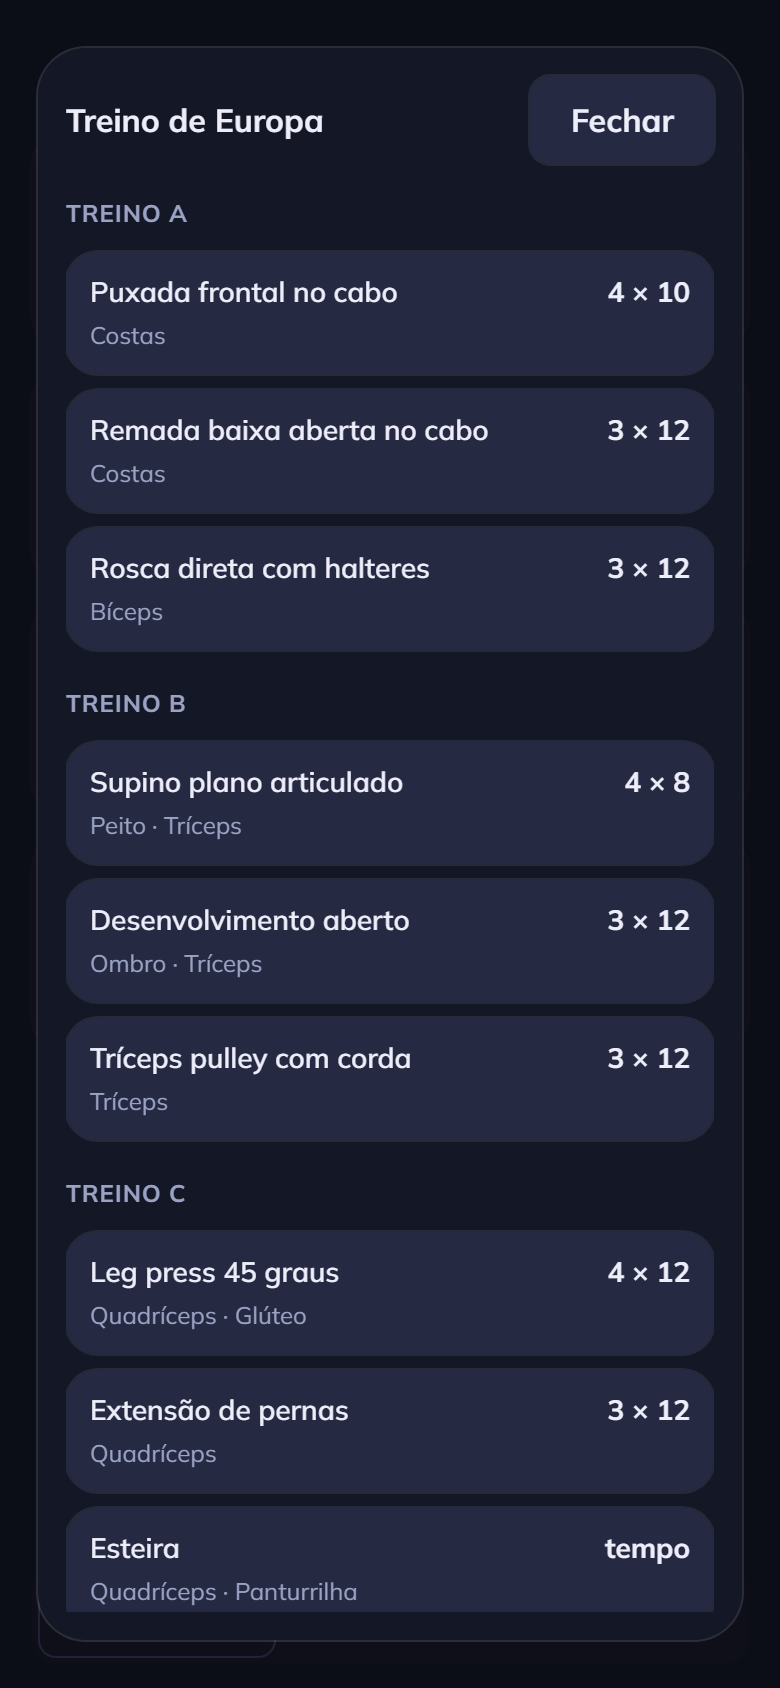
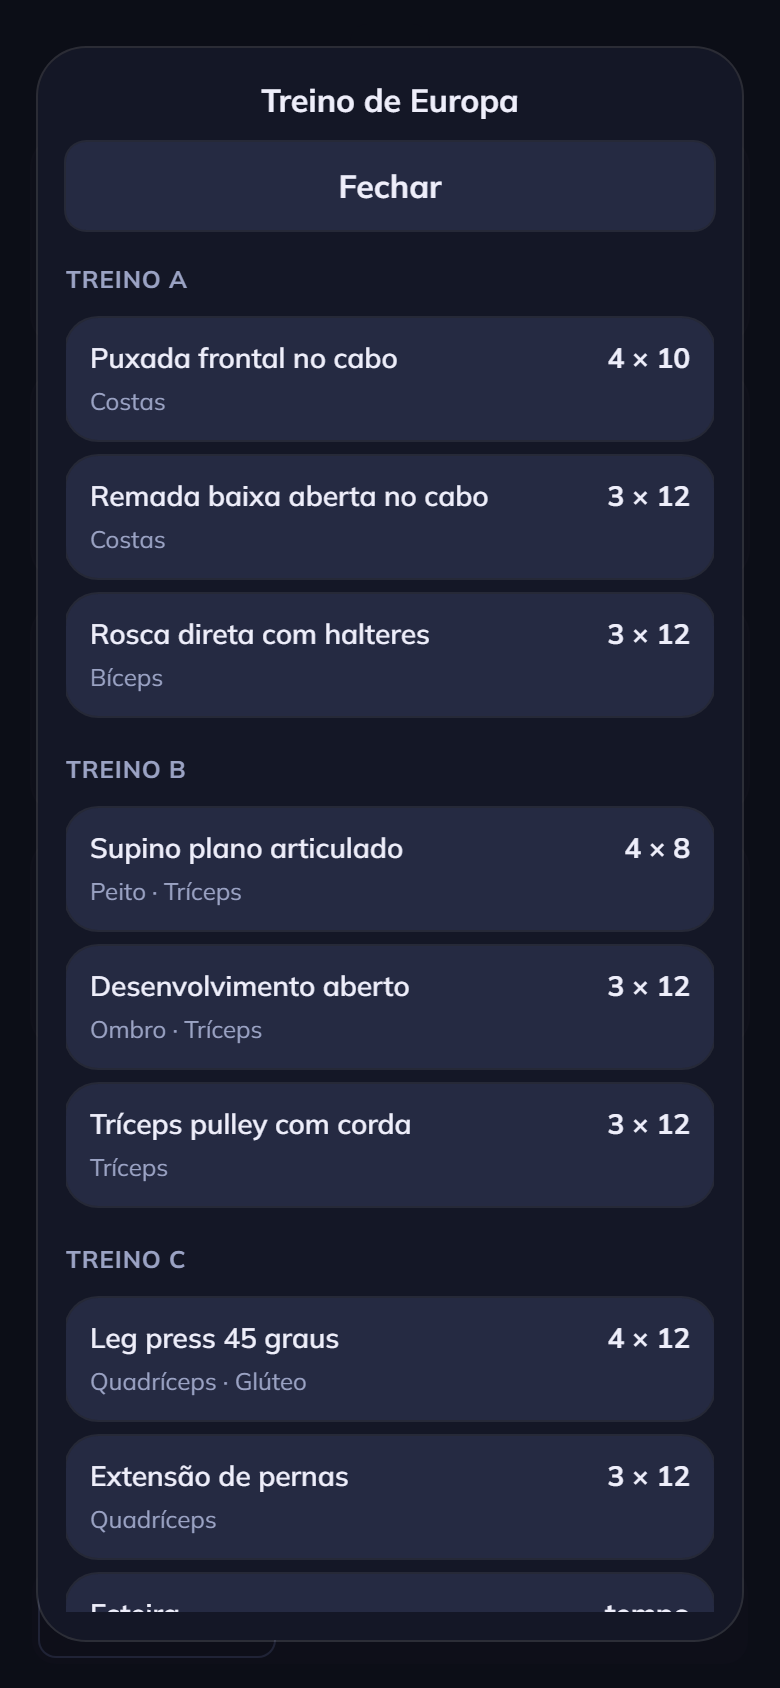
feat: the history drawer closes by dragging its top down
The "Fechar" button gives way to a handle bar over a centered title. The
sheet follows the finger; past 80px it slides out and closes, short of
that it snaps back. Escape and tapping outside remain the keyboard and
mouse paths. Screenshots regenerated, worker cache bumped to v16.

diff --git a/test/probe.js b/test/probe.js
@@ -848,7 +848,7 @@ const Probe = (function () {
       document.querySelectorAll(".history-row .history-none").length
         === document.querySelectorAll(".history-row").length,
       document.querySelectorAll(".history-row .history-none").length);
-    document.getElementById("history-close").click();
+    document.getElementById("history").close();
     await pause(250);
 
     // The drawer: pulling the footer up opens the history, and the click born from the finger releasing
@@ -867,8 +867,27 @@ const Probe = (function () {
     await pause(300);
     check("puxar o rodapé para cima abre o histórico", document.getElementById("history").open);
     check("o dedo que puxou não troca de treino ao soltar", document.querySelector('.tab[aria-selected="true"]').textContent === tabBefore);
-    document.getElementById("history-close").click();
-    await pause(250);
+
+    // Closing is the mirror gesture: drag the drawer's top strip down. Short drag snaps back.
+    const drawer = document.getElementById("history");
+    const strip = drawer.querySelector(".history-top");
+    check("a gaveta não tem mais botão de fechar, só a alça", !document.getElementById("history-close") && strip.querySelector(".handle") !== null);
+    const drag = async (distance) => {
+      strip.dispatchEvent(new PointerEvent("pointerdown", { bubbles: true, clientY: 200, pointerId: 7 }));
+      strip.dispatchEvent(new PointerEvent("pointermove", { bubbles: true, clientY: 200 + distance / 2, pointerId: 7 }));
+      await pause(50);
+      strip.dispatchEvent(new PointerEvent("pointermove", { bubbles: true, clientY: 200 + distance, pointerId: 7 }));
+      await pause(50);
+    };
+    await drag(40);
+    check("a gaveta acompanha o dedo enquanto ele segura", drawer.classList.contains("dragging") && drawer.style.translate === "0px 40px", drawer.style.translate);
+    strip.dispatchEvent(new PointerEvent("pointerup", { bubbles: true, clientY: 240, pointerId: 7 }));
+    await pause(400);
+    check("arrasto curto devolve a gaveta ao lugar", drawer.open && drawer.style.translate === "", drawer.style.translate);
+    await drag(160);
+    strip.dispatchEvent(new PointerEvent("pointerup", { bubbles: true, clientY: 360, pointerId: 7 }));
+    await waitFor(() => !drawer.open, "a gaveta descer e fechar");
+    check("arrasto longo fecha a gaveta e limpa o deslocamento", !drawer.open && drawer.style.translate === "");
     targetTab.click();
     await pause(300);
     check("a aba volta a funcionar no toque seguinte", document.querySelector('.tab[aria-selected="true"]').textContent === targetTab.textContent);
@@ -933,7 +952,7 @@ const Probe = (function () {
     await typeInto("");
     check("limpar a busca traz tudo de volta", rows().length === howManyExercises, rows().length);
 
-    document.getElementById("history-close").click();
+    document.getElementById("history").close();
     await pause(250);
     check("fechar o histórico volta para o treino", !panel.open);
   }
@@ -1077,7 +1096,7 @@ const Probe = (function () {
         .some((row) => row.querySelector(".history-name").textContent === whatReturns));
     check("a volta é anunciada", noticeSays("voltou para o"), document.getElementById("notice").textContent);
 
-    document.getElementById("history-close").click();
+    document.getElementById("history").close();
     await pause(250);
     tabOf(target).click();
     await pause(400);
@@ -1569,7 +1588,8 @@ const Probe = (function () {
       && (await Store.readCircle("sun")) === null);
 
     document.getElementById("circle-create").click();
-    await pause(300);
+    // Creating awaits the render, which awaits the whole list remount: on a busy machine 300ms is short.
+    await waitFor(() => body().includes("Código do convite"), "o código do círculo na tela");
     const code = await Store.readCircle("sun");
     check("criar mostra o código para passar adiante", code !== null && body().includes(code), body());
     check("dentro do círculo, entrar some e sair aparece", document.getElementById("circle-join").hidden

diff --git a/src/history.js b/src/history.js
@@ -291,5 +291,38 @@ for (const name of ["pointerup", "pointercancel"]) {
   footer.addEventListener(name, () => { if (!pull?.opened) pull = null; });
 }
 
-document.getElementById("history-close").onclick = () => historyPanel.close();
+// Dragging the drawer's top edge down closes it, the way pulling the footer up opened it. The sheet
+// follows the finger; past the threshold it slides the rest of the way and closes, short of it it
+// snaps back. Escape and tapping outside stay as the keyboard and mouse paths.
+const DRAWER_DROP = 80;
+const drawerTop = historyPanel.querySelector(".history-top");
+let drop = null;
+drawerTop.addEventListener("pointerdown", (event) => {
+  drop = { y: event.clientY, moved: 0 };
+  historyPanel.classList.add("dragging");
+  try { drawerTop.setPointerCapture(event.pointerId); } catch { /* synthetic pointer */ }
+});
+drawerTop.addEventListener("pointermove", (event) => {
+  if (!drop) return;
+  drop.moved = Math.max(0, event.clientY - drop.y);
+  historyPanel.style.translate = `0 ${drop.moved}px`;
+});
+function releaseDrawer() {
+  if (!drop) return;
+  const far = drop.moved > DRAWER_DROP;
+  drop = null;
+  historyPanel.classList.remove("dragging");
+  if (!far) {
+    historyPanel.style.translate = "";
+    return;
+  }
+  const finish = () => { historyPanel.style.translate = ""; historyPanel.close(); };
+  if (matchMedia("(prefers-reduced-motion: reduce)").matches) return finish();
+  historyPanel.style.translate = "0 100%";
+  // transitionend can be missed when the tab is hidden; the timer is the safety net.
+  const timer = setTimeout(finish, 400);
+  historyPanel.addEventListener("transitionend", () => { clearTimeout(timer); finish(); }, { once: true });
+}
+drawerTop.addEventListener("pointerup", releaseDrawer);
+drawerTop.addEventListener("pointercancel", releaseDrawer);
 historySearch.addEventListener("input", renderHistory);

diff --git a/styles/styles.css b/styles/styles.css
@@ -918,8 +918,12 @@ dialog:focus-visible { outline: none; }
 /* Open only: author style beats the browser's display, and a loose flex would leave the panel
    visible with the dialog closed. */
 #history[open], #plan[open] { display: flex; flex-direction: column; gap: 10px; }
-.history-top { display: flex; align-items: center; justify-content: space-between; gap: 12px; }
-.history-top h2 { margin: 0; }
+/* Title under the handle, and the whole strip is the drag target: without touch-action the browser
+   scrolls the sheet instead of handing the drag to the app. */
+.history-top { display: grid; gap: 10px; padding-top: 2px; touch-action: none; user-select: none; -webkit-touch-callout: none; cursor: grab; }
+.history-top h2 { margin: 0; text-align: center; }
+/* While the finger holds the sheet it follows at once; the transition returns for the snap back or the slide out. */
+#history.dragging { transition: none; }
 #history-search {
   width: 100%;
   padding: 10px 12px;

diff --git a/index.html b/index.html
@@ -125,9 +125,10 @@
 </dialog>
 
 <dialog id="history" aria-labelledby="history-title" tabindex="-1">
+  <!-- The drawer closes the way it opened: drag the top down. Escape and tapping outside still close it. -->
   <div class="history-top">
+    <div class="handle" aria-hidden="true"></div>
     <h2 id="history-title">Histórico</h2>
-    <button type="button" class="secondary" id="history-close">Fechar</button>
   </div>
   <label for="history-search" class="visually-hidden">Buscar por exercício ou grupo</label>
   <input id="history-search" type="search" placeholder="Ex: puxada, costas, bíceps" autocomplete="off" enterkeyhint="search">

diff --git a/sw.js b/sw.js
@@ -3,7 +3,7 @@
 //
 // Bumping VERSION on every release is what swaps the cached content. Without it the device keeps
 // the old version forever, which is the classic way a service worker ruins an app.
-const VERSION = "v15";
+const VERSION = "v16";
 const CACHE = `academia-${VERSION}`;
 
 const ESSENTIALS = [
